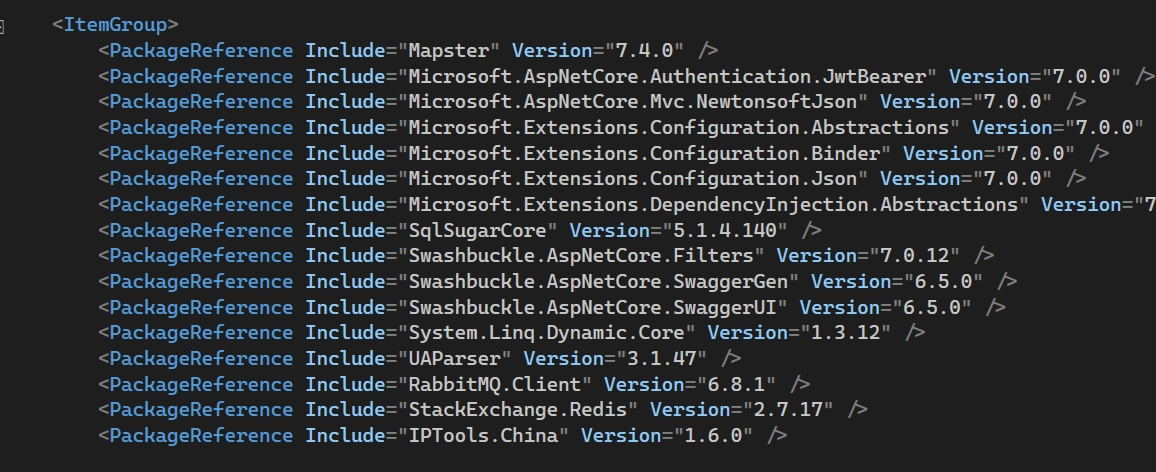
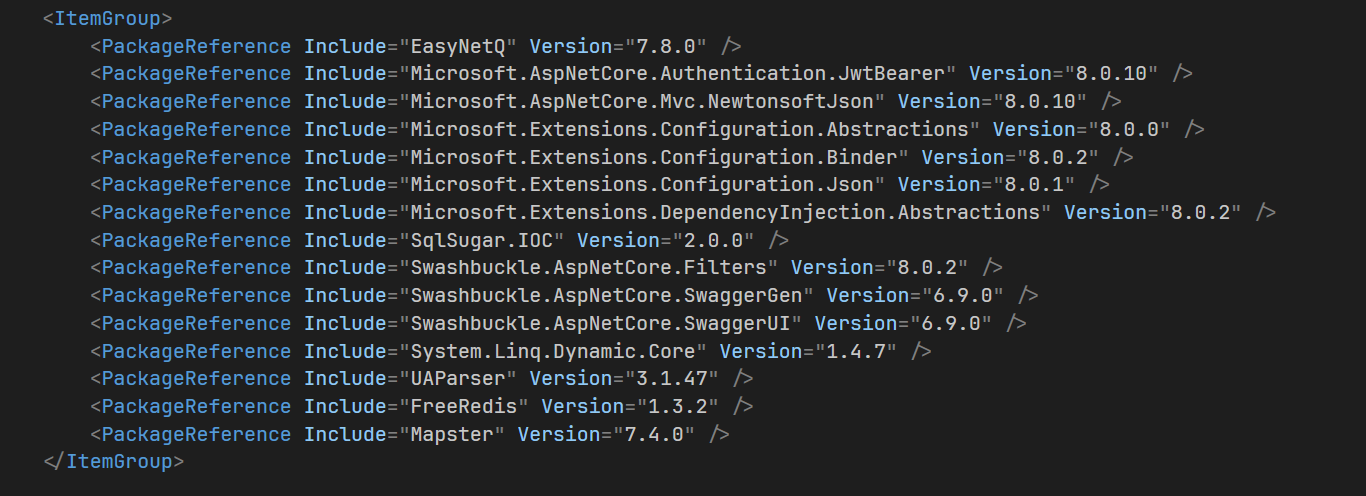
Net8升级

Changed region(s): [[0.0311, 0.0, 1.0, 0.9492]]

diff --git a/MalusWeb/src/service/request/index.ts b/MalusWeb/src/service/request/index.ts
@@ -30,7 +30,7 @@ export const request = createFlatRequest<App.Service.Response, InstanceState>(
       const token = localStg.get('token');
       // const Authorization = token ? `${token}` : null;
       // 更改 请求头信息
-      headers.Token = token ? `${token}` : null;
+      headers.Authorization = token ? `${token}` : null;
       // Object.assign(headers, { Authorization });
 
       return config;

diff --git a/MalusApi/MalusAdmin.Common/Components/RabbitMq/RabbitMqExtension.cs b/MalusApi/MalusAdmin.Common/Components/RabbitMq/RabbitMqExtension.cs
@@ -1,0 +1,55 @@
+using System;
+using System.Collections.Generic;
+using System.Configuration;
+using System.Linq;
+using System.Text;
+using System.Threading.Tasks;
+using EasyNetQ;
+using Microsoft.Extensions.DependencyInjection;
+using Microsoft.Extensions.Hosting;
+using RabbitMQ.Client;
+
+namespace MalusAdmin.Common.Components.RabbitMq
+{
+    public static class RabbitMqExtension
+    {
+        
+        public static IServiceCollection AddRabbitMqExtension(this IServiceCollection services)
+        {
+            // 获取RabbitMQ连接字符串
+            //string mqConnetion = AppSettings.RabbitMqConnetion;
+
+            //var rabbitMQConfig = Configuration.GetSection("RabbitMQ").Get<RabbitMQConfig>();
+
+            //services.AddSingleton<IConnection>(x =>
+            //{
+            //    var factory = new ConnectionFactory()
+            //    {
+            //        HostName = rabbitMQConfig.Host,
+            //        Port = rabbitMQConfig.Port,
+            //        UserName = rabbitMQConfig.Username,
+            //        Password = rabbitMQConfig.Password
+            //    };
+            //    return factory.CreateConnection();
+            //});
+
+            //services.AddSingleton<PublishMessage>();
+
+            // 注入EasyNetQ的IBus实例
+            //services.AddSingleton(RabbitHutch.CreateBus(mqConnetion));
+
+            //v8版本
+            //services.AddEasyNetQ("host=myServer;virtualHost=myVirtualHost;username=mike;password=topsecret")
+            //   .UseSystemTextJson(); ;
+            // 注册订阅服务
+            //services.AddSingleton<IHostedService, MessageSubscriberHostedService>();
+
+
+
+            return services;
+        }
+    }
+
+
+   
+}

diff --git a/MalusApi/MalusAdmin.Common/Components/Configuration/AppSettings.cs b/MalusApi/MalusAdmin.Common/Components/Configuration/AppSettings.cs
@@ -34,7 +34,7 @@ public static class AppSettings
     /// <summary>
     /// 允许跨域请求列表
     /// </summary>
-    public static string[] AllowCors => Configuration.GetSection("AllowCors").Get<string[]>();
+    public static string[] AllowCors => Configuration.GetSection("AllowCors").Get<string[]>()??new string[] { };
 
     /// <summary>
     /// 是否演示环境
@@ -46,16 +46,26 @@ public static class AppSettings
     /// </summary>
     public static bool DisplaySwaggerDoc => Configuration["DisplaySwaggerDoc"].ObjToBool();
 
-    public static string SqlServerConnection => Configuration["SqlServerConnection"];
+    /// <summary>
+    /// 数据库链接
+    /// </summary>
+    public static string SqlServerConnection => Configuration["SqlServerConnection"]??"";
+
+
+    /// <summary>
+    /// RabbitMq链接
+    /// </summary>
+    public static string RabbitMqConnetion => Configuration["RabbitMqConnetion"]??"";
+
 
     /// <summary>
     /// Jwt 配置
     /// </summary>
     public static class Jwt
     {
-        public static string SecretKey => Configuration["Jwt:SecretKey"];
-        public static string Issuer => Configuration["Jwt:Issuer"];
-        public static string Audience => Configuration["Jwt:Audience"];
+        public static string SecretKey => Configuration["Jwt:SecretKey"] ?? "";
+        public static string Issuer => Configuration["Jwt:Issuer"] ?? "";
+        public static string Audience => Configuration["Jwt:Audience"] ?? "";
     }
 
 

diff --git a/MalusApi/MalusAdmin.Common/Components/RabbitMq/PublishMessage.cs b/MalusApi/MalusAdmin.Common/Components/RabbitMq/PublishMessage.cs
@@ -1,0 +1,42 @@
+//using System;
+//using System.Collections.Generic;
+//using System.Linq;
+//using System.Text;
+//using System.Threading.Tasks;
+//using EasyNetQ;
+//using RabbitMQ.Client;
+
+//namespace MalusAdmin.Common.Components.RabbitMq
+//{
+//    public class PublishMessage
+//    {
+
+//        private readonly IConnection _rabbitMQConnection;
+//        public PublishMessage(IConnection rabbitMQConnection)
+//        {
+//            _rabbitMQConnection = rabbitMQConnection;
+//        }
+
+      
+
+//        public void PublishMyMessage(string exchangeName, string routingKey, Object message)
+//        {
+//            using (var channel = _rabbitMQConnection.CreateModel())
+//            {
+//                channel.QueueDeclare(queue: "my_queue",
+//                                     durable: false,
+//                                     exclusive: false,
+//                                     autoDelete: false,
+//                                     arguments: null);
+
+//                var body = Encoding.UTF8.GetBytes(message.ToJson());
+
+//                channel.BasicPublish(exchange: "",
+//                                      routingKey: "my_queue",
+//                                      basicProperties: null,
+//                                      body: body);
+               
+//            }
+//        }
+//    }
+//}

diff --git a/MalusApi/MalusAdmin.Common/Components/Sqlsugar/PageParamBase.cs b/MalusApi/MalusAdmin.Common/Components/Sqlsugar/PageParamBase.cs
@@ -6,37 +6,37 @@ public class PageParamBase
     /// <summary>
     ///搜索值
     /// </summary>
-    public virtual string KeyWord { get; set; }
+    public string? KeyWord { get; set; }
 
     /// <summary>
     ///当前页码
     /// </summary>
-    public virtual int PageNo { get; set; } = 1;
+    public  int PageNo { get; set; } = 1;
 
     /// <summary>
     ///页码容量
     /// </summary>
-    public virtual int PageSize { get; set; } = 20;
+    public  int PageSize { get; set; } = 20;
 
     /// <summary>
     ///搜索开始时间
     /// </summary>
-    public virtual string SearchBeginTime { get; set; }
+    public string? SearchBeginTime { get; set; }
 
     /// <summary>
     ///搜索结束时间
     /// </summary>
-    public virtual string SearchEndTime { get; set; }
+    public string? SearchEndTime { get; set; }
 
     /// <summary>
     ///排序字段
     /// </summary>
-    public virtual string SortField { get; set; }
+    public string? SortField { get; set; }
 
     /// <summary>
     ///排序方法,默认升序,否则降序(配合antd前端,约定参数为 Ascend,Dscend)
     /// </summary>
-    public virtual string SortOrder { get; set; }
+    public  string? SortOrder { get; set; }
 
     /// <summary>
     ///降序排序(不要问我为什么是descend不是desc，前端约定参数就是这样)

diff --git a/MalusApi/MalusAdmin.Common/Components/RabbitMq/MessageSubscriber.cs b/MalusApi/MalusAdmin.Common/Components/RabbitMq/MessageSubscriber.cs
@@ -1,0 +1,39 @@
+//using System;
+//using System.Collections.Generic;
+//using System.Linq;
+//using System.Text;
+//using System.Threading.Tasks;
+//using EasyNetQ;
+//using Microsoft.Extensions.Hosting;
+
+//namespace MalusAdmin.Common.Components.RabbitMq
+//{
+//    public class MessageSubscriber : IHostedService
+//    {
+//        private readonly IBus _bus;
+//        private IDisposable _subscription;
+
+//        public MessageSubscriber(IBus bus)
+//        {
+//            _bus = bus;
+//        }
+
+//        public Task StartAsync(CancellationToken cancellationToken)
+//        {
+//            //_subscription=_bu
+//            //_subscription = _bus.Subscribe<RabbitMessage>("my_subscription_id", HandleMessage);
+//            return Task.CompletedTask;
+//        }
+
+//        private void HandleMessage(object message)
+//        {
+//            Console.WriteLine($"Received message: {message.Text}");
+//        }
+
+//        public Task StopAsync(CancellationToken cancellationToken)
+//        {
+//            _subscription?.Dispose();
+//            return Task.CompletedTask;
+//        }
+//    }
+//}

diff --git a/MalusApi/MalusAdmin.Common/Components/DataValidation/DataValidationFilter.cs b/MalusApi/MalusAdmin.Common/Components/DataValidation/DataValidationFilter.cs
@@ -16,6 +16,16 @@ namespace MalusAdmin.Common
 
         public void OnActionExecuting(ActionExecutingContext context)
         {
+
+            // 检查是否需要禁用模型验证
+            //if (context.ActionArguments.ContainsKey("pageInput") &&
+            //    context.ActionArguments["pageInput"] is Keyword)
+            //{
+            //    // 禁用模型验证
+            //    //context.ModelState.Clear();
+            //    return;
+            //}
+
             // 如果其他过滤器已经设置了结果，则跳过验证
             if (context.Result != null) return;
 
@@ -35,7 +45,7 @@ namespace MalusAdmin.Common
             var result = ApiResultHelper.Result400BadRequest("数据验证不通过！", errors);
 
             // 设置结果
-            context.Result = new BadRequestObjectResult(result); // ObjectResult(result);
+            context.Result = new ObjectResult(result); 
         }
 
         public void OnActionExecuted(ActionExecutedContext context)

diff --git a/MalusApi/MalusAdmin.Common/Model/RabbitMQConfig.cs b/MalusApi/MalusAdmin.Common/Model/RabbitMQConfig.cs
@@ -1,0 +1,21 @@
+using System;
+using System.Collections.Generic;
+using System.Linq;
+using System.Text;
+using System.Threading.Tasks;
+
+namespace MalusAdmin.Common
+{
+    public class RabbitMQConfig
+    {
+        public string Host { get; set; }
+        public int Port { get; set; }
+        public string Username { get; set; }
+
+        public string Password { get; set; } 
+
+        public string Virtualhost { get; set; } 
+
+
+    }
+}

diff --git a/MalusApi/Wechat.WebApi/Controllers/Gallery/GalleryServiceController.cs b/MalusApi/Wechat.WebApi/Controllers/Gallery/GalleryServiceController.cs
@@ -143,7 +143,7 @@ public class GalleryServiceController : WxApiControllerBase
         var like = await _db.Queryable<BsGallery>()
             .RightJoin<BsCustomerCollect>((g, c) => g.ImagesID == c.ImagesID)
             .Where((g, c) => c.IsLike == true && c.UserID == UserId)
-            .ToPagedListAsync(input.Page, input.PageSize);
+            .ToPagedListAsync(input.PageNo, input.PageSize);
 
         return like.XnPagedResult();
     }

diff --git a/MalusApi/MalusAdmin.Common/Components/RabbitMq/RabbitMessage.cs b/MalusApi/MalusAdmin.Common/Components/RabbitMq/RabbitMessage.cs
@@ -1,0 +1,19 @@
+using System;
+using System.Collections.Generic;
+using System.Linq;
+using System.Text;
+using System.Threading.Tasks;
+
+namespace MalusAdmin.Common.Components.RabbitMq
+{
+    ///// <summary>
+    ///// 订阅的消息体
+    ///// </summary>
+    //public class RabbitMessage
+    //{
+    //    public Object Text { get; set; }
+
+
+    //    public DateTime PublishTime { get; set; } = DateTime.Now;
+    //}
+}

diff --git a/MalusApi/MalusAdmin.WebApi/Filter/RequestActionFilter.cs b/MalusApi/MalusAdmin.WebApi/Filter/RequestActionFilter.cs
@@ -95,7 +95,7 @@ public class RequestActionFilter : IAsyncActionFilter, IOrderedFilter
 
         Console.WriteLine($"处理 {DateTime.Now} : {entity.ToJson()}");
 
-        _db.Insertable(entity).SplitTable().ExecuteReturnSnowflakeId();
+        //_db.Insertable(entity).SplitTable().ExecuteReturnSnowflakeId();
     }
 
     public int Order => FilterOrder;

diff --git a/MalusApi/MalusAdmin.Common/Components/DataValidation/DataValidationMvcBuilderExtensions.cs b/MalusApi/MalusAdmin.Common/Components/DataValidation/DataValidationMvcBuilderExtensions.cs
@@ -26,7 +26,7 @@ namespace MalusAdmin.Common
             builder.AddMvcOptions(options =>
             {
                 // 添加自定义模型验证过滤器
-                options.Filters.Add<DataValidationFilter>(filterOrder);
+                //options.Filters.Add<DataValidationFilter>(filterOrder);
             });
 
             return builder;
